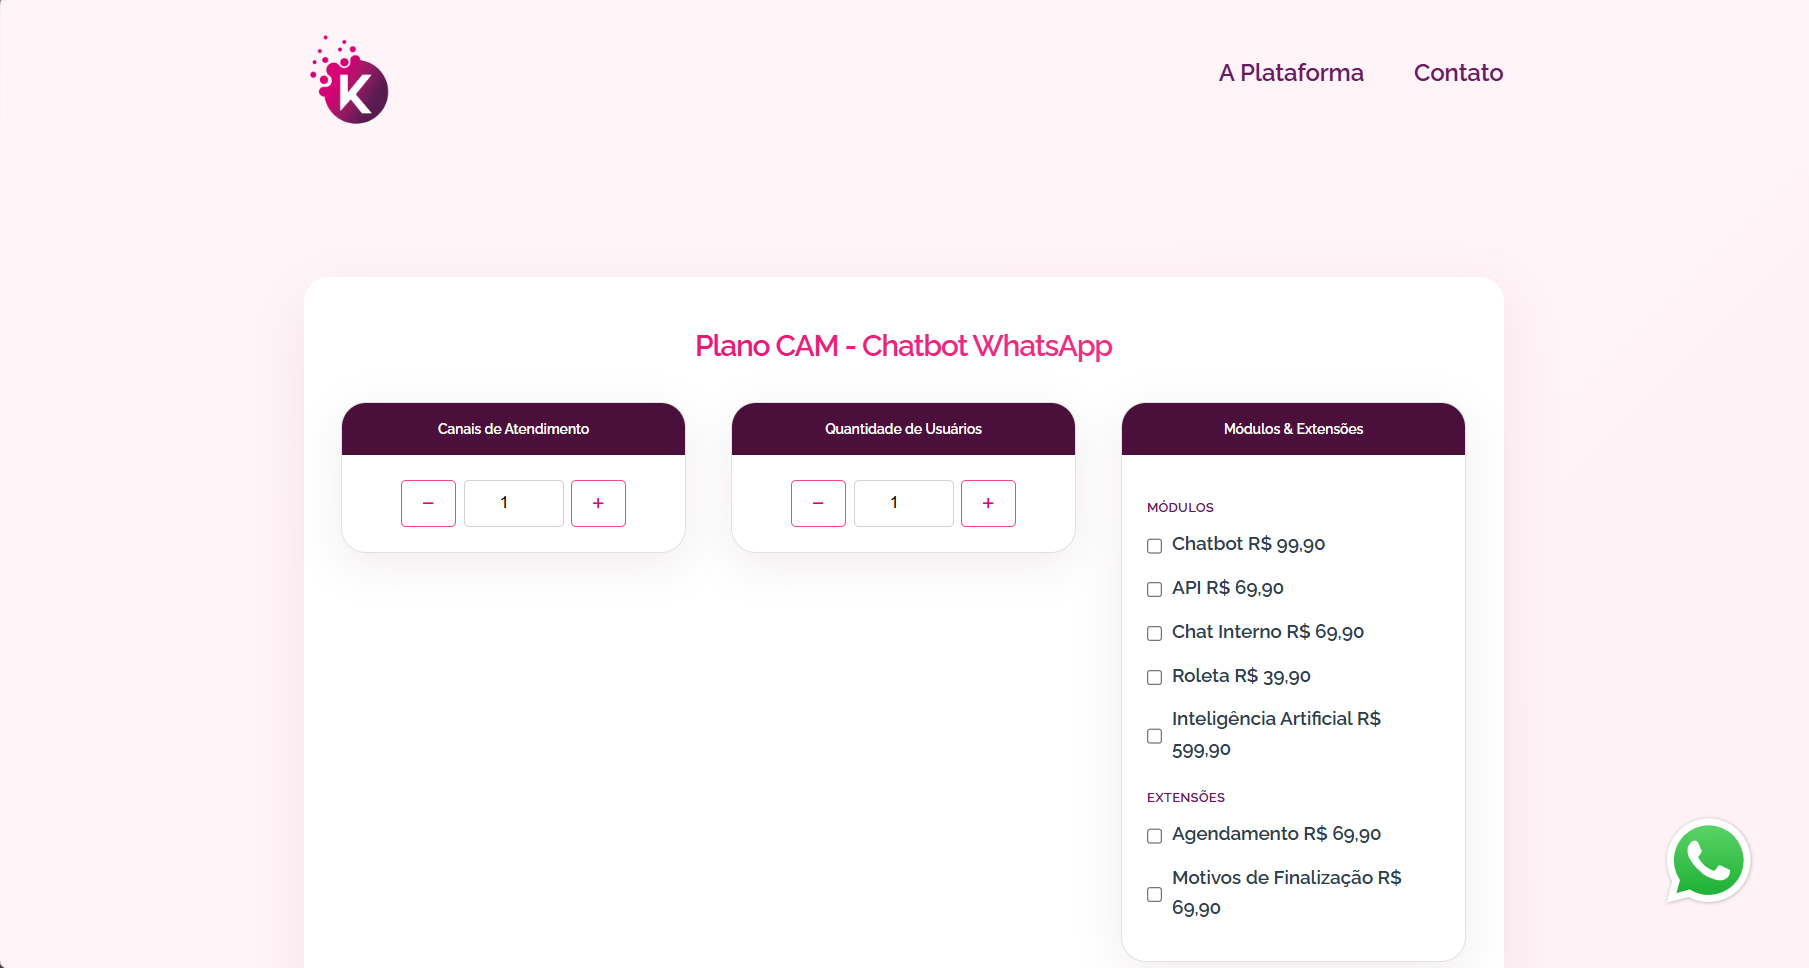
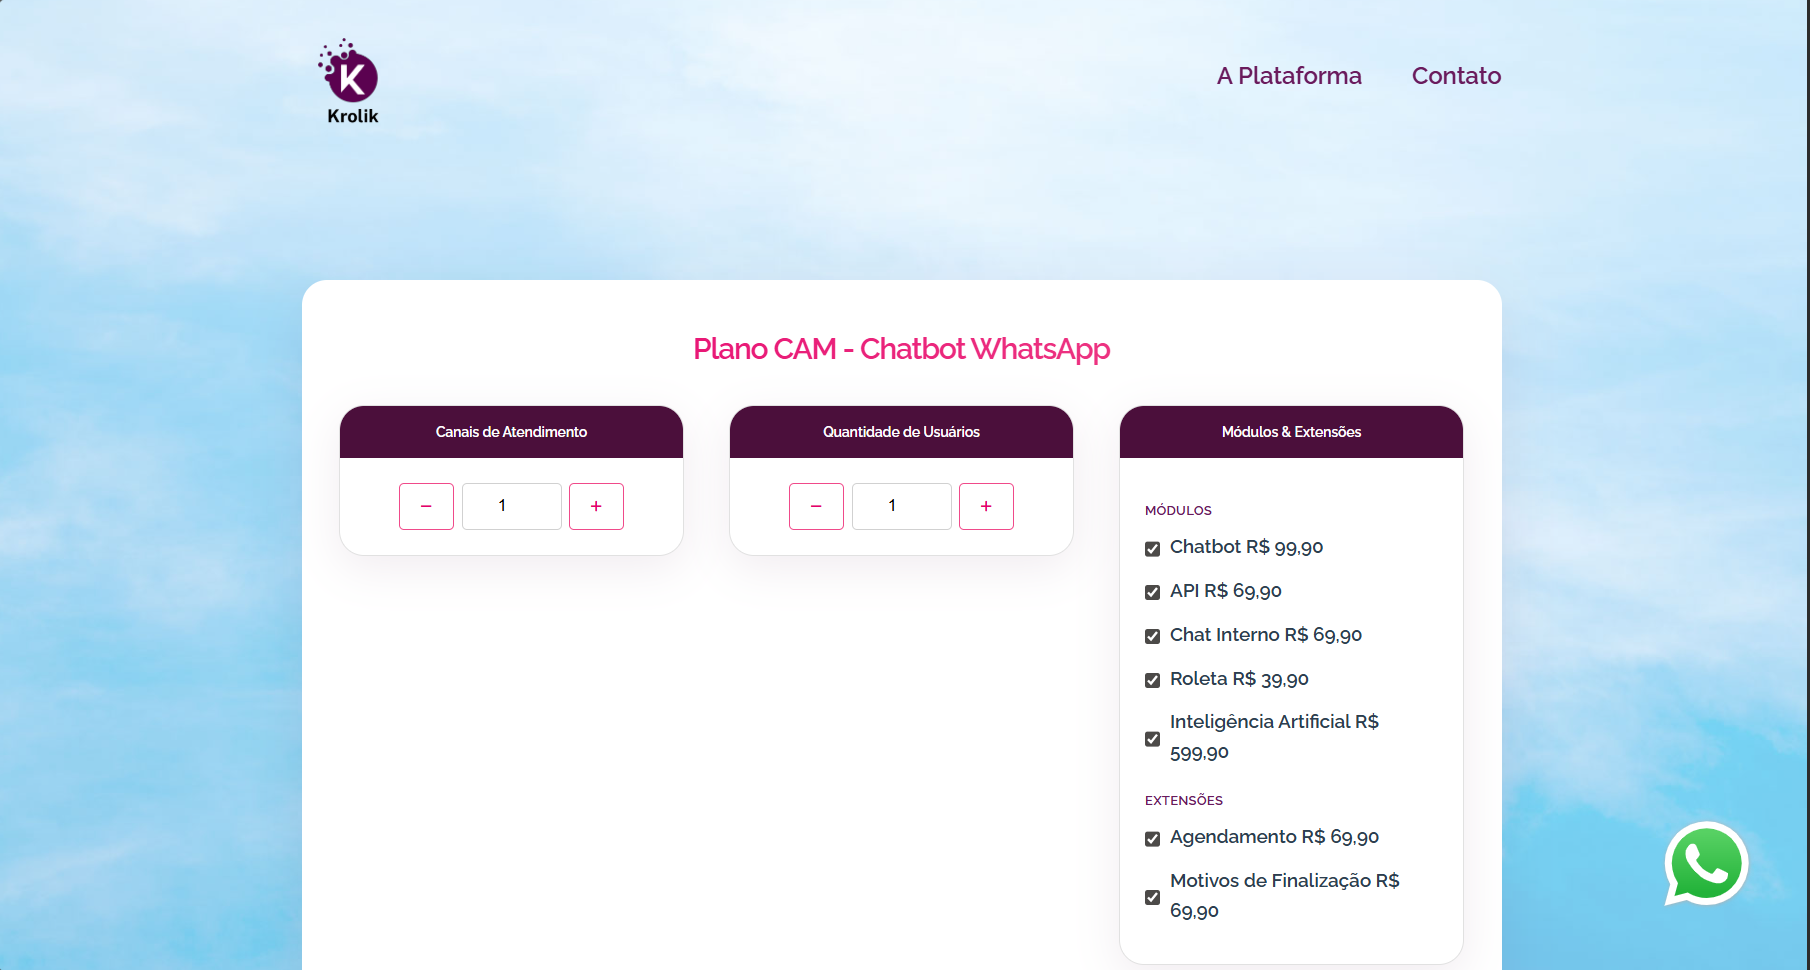
Refactor code structure for improved readability and maintainability

diff --git a/projects/calculadora-cam/index.html b/projects/calculadora-cam/index.html
@@ -132,12 +132,16 @@
         }
 
         body {
-            margin-top: 176px;
-            background: linear-gradient(135deg, #fff5f8 0%, #ffeef5 100%);
-            font-family: 'Raleway', 'Segoe UI', sans-serif;
-            color: #2c3e50;
-            min-height: 100vh;
-        }
+margin-top: 176px;
+background-image: url("assets/images/ceu2.jpg");
+background-size: cover;
+background-position: center;
+background-repeat: no-repeat;
+background-attachment: fixed;
+font-family: 'Raleway', 'Segoe UI', sans-serif;
+color: #2c3e50;
+min-height: 100vh;
+}
 
         .header { margin-bottom: 4rem; text-align: center; }
 
@@ -463,14 +467,14 @@
                     <div class="header-inner">
                         <div class="logo">
                             <a href="/" title="Home">
-                                <img src="assets/images/ico.png" alt="Cam Krolik">
+                                <img src="assets/images/ico.svg" alt="Cam Krolik">
                             </a>
                         </div>
 
                         <nav class="main-nav" aria-label="Navegacao principal">
                             <ul>
                                 <li><a href="https://usecam.krolik.com.br/" title="A Plataforma">A Plataforma</a></li>
-                                <li><a href="https://wa.me/551640421700" title="Contato">Contato</a></li>
+                                <li><a href="https://wa.me/558000420606" title="Contato">Contato</a></li>
                             </ul>
                         </nav>
 
